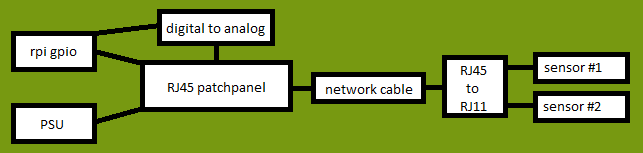
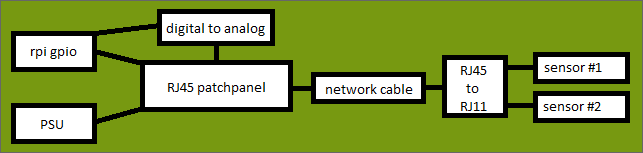
planning for systemd services

Changed region(s): [[0.0, 0.0, 1.0, 1.0]]

diff --git a/ReadMe.md b/ReadMe.md
@@ -15,7 +15,7 @@ Version: 0.2.1
 - writing installation manual / scripting installation
     - implementing the main config changes into the setup script
 - designing a clean plug&play alternative for connecting sensors
-    - example: <br /> <img src="https://github.com/growautomation-at/controller/blob/master/images/cable-topology.jpg" float="middle" width="50%" height="50%" border="4" alt="cable topology example">
+    - example: <br /> <img src="https://github.com/growautomation-at/controller/blob/master/images/cable-topology.jpg" float="middle" width="75%" height="75%" border="4" alt="cable topology example">
 
 ## On hold projects
 - implementing actionblocks and actiontypes
